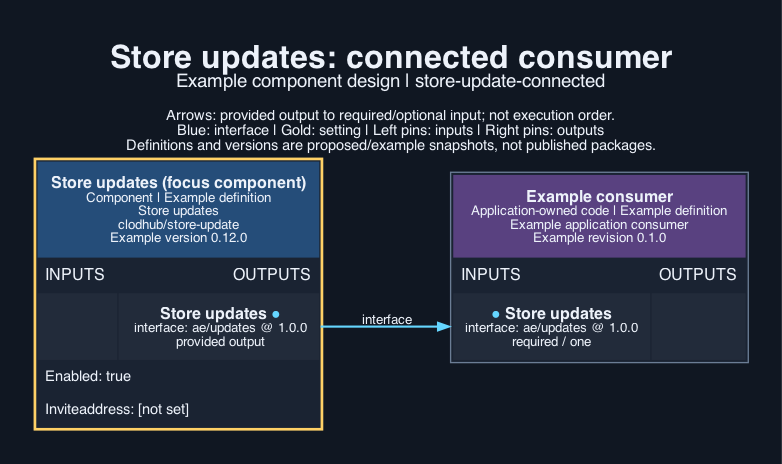
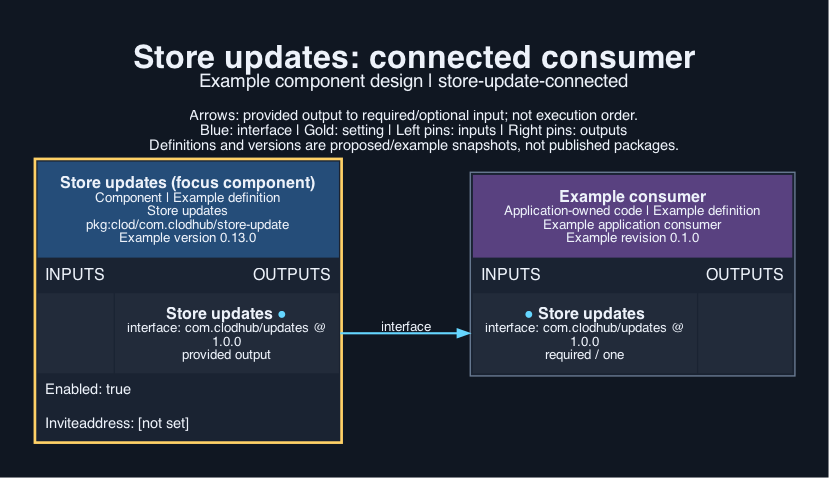
store-update 0.13.0: package URL names, clod, com.clodhub interface types and Kotlin packages

Changed region(s): [[0.0307, 0.0905, 0.9821, 0.9353], [0.0, 0.9957, 1.0, 1.0], [0.5831, 0.7845, 0.9514, 0.8147]]

diff --git a/implementation/android/src/main/java/com/clodhub/update/Version.kt b/implementation/android/src/main/java/com/clodhub/update/Version.kt
@@ -1,4 +1,4 @@
-package ae.update
+package com.clodhub.update
 
 fun isNewer(latest: String, current: String): Boolean {
     if (current.startsWith("0.0.0")) return false

diff --git a/tests/android/Main.kt b/tests/android/Main.kt
@@ -1,4 +1,4 @@
-import ae.update.isNewer
+import com.clodhub.update.isNewer
 
 fun main() {
     check(isNewer("0.6.10", "0.6.9"))

diff --git a/CONTRACT.md b/CONTRACT.md
@@ -10,16 +10,16 @@ Facilities: `updates` (Tells people when a newer version of the application they
 ## User inputs
 The installer collects two settings:
 
-- `enabled`: whether the application looks for updates at all, true or false (default true). False switches the check off everywhere.
+- `enabled`: whether the application looks for updates at all, true or false (default true); `false` switches the check off everywhere.
 - `inviteAddress`: the application's ourapps.app invitation link, an http or https address (optional, no default), `https://<store>/l/<identifier>` with nothing after the identifier. Without it, or with any other form of address, there is no update check. Anything after a `?` or `#` in the link is ignored.
 
 The application also passes, in code, the version installed on the device and the function that makes web requests. No keys or private links are needed.
 
 ## Artefacts and dependencies
-`component.json` maps every `implementation/` source into `components/store-update/`: `server/store.ts` (the store address from the invitation link and the settings), `web/update.ts` (the request and the comparison), `apple/Sources/Version.swift` and the Android `ae.update` sources. No runtime dependencies. `tools.lock.json` pins the check tools (Node 26.5, Python 3.12, Swift 6.4, Kotlin 2.2, Java 26.0).
+`component.json` maps every `implementation/` source into `components/store-update/`: `server/store.ts` (the store address from the invitation link and the settings), `web/update.ts` (the request and the comparison), `apple/Sources/Version.swift` and the Android `com.clodhub.update` sources. No runtime dependencies. `tools.lock.json` pins the check tools (Node 26.5, Python 3.12, Swift 6.4, Kotlin 2.2, Java 26.0).
 
 ## Provided interfaces
-`interfaces/updates.json` defines `updates` (`ae/updates`) version 1.0.0 as an OpenRPC 1.3.2 document: `updateUrlFor`, `updateAddress`, `isNewer`, `fetchUpdate` and `currentVersion`, each tagged with the languages that provide it, with parameters and results as JSON Schema 2020-12.
+`interfaces/updates.json` defines `updates` (`com.clodhub/updates`) version 1.0.0 as an OpenRPC 1.3.2 document: `updateUrlFor`, `updateAddress`, `isNewer`, `fetchUpdate` and `currentVersion`, each tagged with the languages that provide it, with parameters and results as JSON Schema 2020-12.
 
 How versions compare: the numbers are compared one by one, so `0.6.10` is newer than `0.6.9`; a missing number counts as 0 (`1.2` equals `1.2.0`); anything after a hyphen is ignored (`1.2.0-beta` equals `1.2.0`); a part that is not a number counts as 0. An installed version starting `0.0.0` (a development build) never reports an update.
 
@@ -35,7 +35,7 @@ const latest = address ? await fetchUpdate(address, fetch) : null;
 if (latest && isNewer(latest.version, installedVersion)) showUpdate(latest.version, latest.url);
 ```
 
-On Apple, `currentVersion` reads the installed version from the application bundle and `isNewer(_:than:)` compares; on Android, import `ae.update.isNewer`. `examples/consumer.ts` combines the address, the request and the comparison.
+On Apple, `currentVersion` reads the installed version from the application bundle and `isNewer(_:than:)` compares; on Android, import `com.clodhub.update.isNewer`. `examples/consumer.ts` combines the address, the request and the comparison.
 
 ## Visual definition and connected examples
 `visual/definition.json` maps its `updates` output to the provided interface. `visual/examples/connected.json` connects it to an illustrative application consumer. Both image formats and the text description are in `visual/output/`.

diff --git a/INSTRUCTIONS.md b/INSTRUCTIONS.md
@@ -1,6 +1,6 @@
 # Store updates instructions
 
-Package `clodhub/store-update` version `0.12.0`. It provides the `updates` interface (type `ae/updates`, version 1.0.0) and requires nothing.
+Package `pkg:clod/com.clodhub/store-update` version `0.13.0`. It provides the `updates` interface (type `com.clodhub/updates`, version 1.0.0) and requires nothing.
 
 ## For the agent
 
@@ -14,7 +14,7 @@ Package `clodhub/store-update` version `0.12.0`. It provides the `updates` inter
 - Server: `components/store-update/server/store.ts` exports `updateUrlFor(inviteUrl)`; it turns an invitation address (http or https, exactly `/l/<identifier>`, the complete identifier kept) into the store's latest-version address, or returns null. `updateAddress({enabled, inviteAddress})` does the same from the collected settings and returns null when disabled.
 - Web: `components/store-update/web/update.ts` exports `fetchUpdate(url, fetcher)` (returns `{version, url}` or null on any failure) and `isNewer(latest, current)`.
 - Apple: `components/store-update/apple/Sources/Version.swift` has `isNewer(_:than:)` and `currentVersion` (from the application bundle).
-- Android: `components/store-update/android/src/main/java/ae/update/Version.kt` has `ae.update.isNewer`; add the source root and import it.
+- Android: `components/store-update/android/src/main/java/com/clodhub/update/Version.kt` has `com.clodhub.update.isNewer`; add the source root and import it.
 - Comparison: numeric parts, missing parts count as zero, text after the first hyphen is ignored, malformed parts count as zero, a current version starting `0.0.0` never updates (development builds).
 - You decide how to show the prompt and whether to open the link. Fetch retries and timeouts belong to the fetch function you inject.
 
@@ -26,6 +26,6 @@ From the component directory:
 - `node --test tests/regression.test.ts` (required; invitation path regression)
 - `python3 tests/native.py apple` (needs swiftc 6.4)
 - `python3 tests/native.py android` (needs kotlinc 2.2 and java 26.0; not runnable where kotlinc is missing)
-- `python3 -m aepm review <digest> --store STORE --policy POLICY --trusted --allow-network` checks an archive fetched with `python3 -m aepm fetch clodhub/store-update@VERSION --store STORE --from https://clodhub.com` and runs its suites.
+- `python3 -m clod review <digest> --store STORE --policy POLICY --trusted --allow-network` checks an archive fetched with `python3 -m clod fetch store-update@VERSION --store STORE --from https://clodhub.com` and runs its suites.
 
 In the application, serve a store document with a higher version and confirm the prompt appears; serve a lower or equal version, an error status or invalid JSON and confirm no prompt appears.

diff --git a/SOURCE.md b/SOURCE.md
@@ -7,13 +7,13 @@ Reference revision: `19905b75dbea89fbfd424d67fe26c81aaed0e018` (frozen McInPoker
 | `implementation/server/store.ts` (20) | `server/src/store.ts` 1-5 (`updateUrlFor`) | Takes an injected invitation address; no fixed host; parses the address (http and https, exactly one opaque segment after `/l/`, complete identifier kept) instead of the frozen prefix match; `updateAddress(settings)` is new | The `/update` relay route and `INVITE_URL` environment lookup (`server/src/index.ts` 61-67, recipe-owned) |
 | `implementation/web/update.ts` (25) | `ios/McInPoker/Sources/Version.swift` 4-14 (comparator); relay shape from `server/src/index.ts` 61-67 and `server/src/contract.ts` 239-246 (`UpdateInfo`) | Browser comparator plus `fetchUpdate` with an injected fetch function; returns only string `version` and `url` | Store-specific fields (TestFlight link and version), prompt text, retry and timeout policy |
 | `implementation/apple/Sources/Version.swift` (16) | `ios/McInPoker/Sources/Version.swift` 1-16 | Comment reworded | Nothing |
-| `implementation/android/src/main/java/ae/update/Version.kt` (13) | `android/app/src/main/java/com/georgemcintyre/mcinpoker/Version.kt` 1-14 | Package `ae.update` | Nothing |
+| `implementation/android/src/main/java/com/clodhub/update/Version.kt` (13) | `android/app/src/main/java/com/georgemcintyre/mcinpoker/Version.kt` 1-14 | Package `com.clodhub.update` | Nothing |
 
 Details follow.
 
 - `server/src/store.ts` -> `implementation/server/store.ts`: the frozen prefix matcher is replaced by a parser.
 - `ios/McInPoker/Sources/Version.swift` -> `implementation/apple/Sources/Version.swift`: comparator and bundle version lookup.
-- `android/app/src/main/java/com/georgemcintyre/mcinpoker/Version.kt` -> `implementation/android/src/main/java/ae/update/Version.kt`: comparator with generic package name.
+- `android/app/src/main/java/com/georgemcintyre/mcinpoker/Version.kt` -> `implementation/android/src/main/java/com/clodhub/update/Version.kt`: comparator with generic package name.
 - Native comparator -> `implementation/web/update.ts`: browser numeric/suffix comparison helper; `fetchUpdate` supplies the frozen injected-fetch contract corresponding to the reference `/update` relay and native update consumers.
 
 `implementation/server/store.ts` parses http/https addresses and exactly one complete opaque invitation segment. `/l/Example1-other` returned the endpoint for `Example1` in the reference; this component preserves `Example1-other`. It rejects trailing paths, encoded separators, credentials and malformed addresses, and omits query/fragment suffixes. Tests use only synthetic addresses and identifiers.

diff --git a/.opencode/knowledge/00-index.md b/.opencode/knowledge/00-index.md
@@ -1,6 +1,6 @@
 # store-update ownership
 
-Repository: https://github.com/clodhub/store-update.git. Package `clodhub/store-update`, interface `ae/updates`, facility `updates`.
+Repository: https://github.com/clodhub/store-update.git. Package `pkg:clod/com.clodhub/store-update`, interface `com.clodhub/updates`, facility `updates`.
 
-Code: `implementation/server/store.ts`, `implementation/web/update.ts`, `implementation/apple/Sources/Version.swift`, `implementation/android/src/main/java/ae/update/Version.kt`. `implementation/server/store.ts` is the invitation parser (complete opaque identifier, http and https, exactly one path segment after `/l/`) plus `updateAddress(settings)`.
+Code: `implementation/server/store.ts`, `implementation/web/update.ts`, `implementation/apple/Sources/Version.swift`, `implementation/android/src/main/java/com/clodhub/update/Version.kt`. `implementation/server/store.ts` is the invitation parser (complete opaque identifier, http and https, exactly one path segment after `/l/`) plus `updateAddress(settings)`.
 Artefacts: `component.json`, `CONTRACT.md`, `INSTRUCTIONS.md`, `SOURCE.md`, `suitability.json` (library-only), `tools.lock.json`, `interfaces/updates.json`, `tests/` (including `tests/regression.test.ts` and `tests/fixtures/invitations.json`), `visual/`. No data is kept, so there is no `migration.json`.

diff --git a/.opencode/knowledge/workflow.md b/.opencode/knowledge/workflow.md
@@ -3,4 +3,4 @@
 Repository: `clodhub/store-update`. Licence: `Apache-2.0` (`LICENCE`, `NOTICE`).
 
 Commands from the package root: `node --test tests/web.test.ts`, `python3 tests/native.py apple`, `node --test tests/regression.test.ts`, `python3 tests/native.py android` (kotlinc is not installed here, so the Android check does not run).
-Review a fetched archive: `python3 -m aepm review <digest> --store STORE --policy POLICY --trusted --allow-network`. Always `-B`.
+Review a fetched archive: `python3 -m clod review <digest> --store STORE --policy POLICY --trusted --allow-network`. Always `-B`.

diff --git a/visual/output/description.md b/visual/output/description.md
@@ -1,3 +1,3 @@
 # Store updates
 
-The store-update component at version 0.12.0 provides ae/updates version 1.0.0 to an illustrative application consumer. The single arrow runs from the named updates output to its required input. No configuration or secret values are displayed.
+The store-update component at version 0.13.0 provides com.clodhub/updates version 1.0.0 to an illustrative application consumer. The single arrow runs from the named updates output to its required input. No configuration or secret values are displayed.
